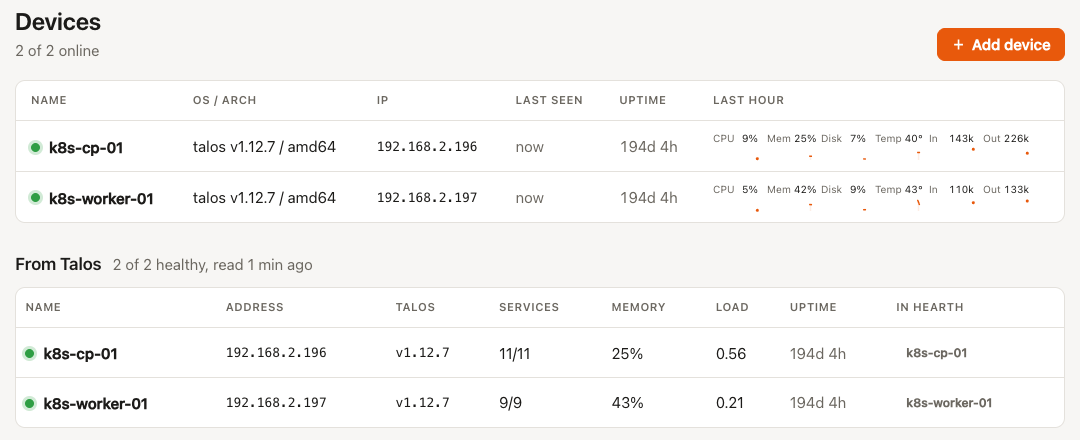
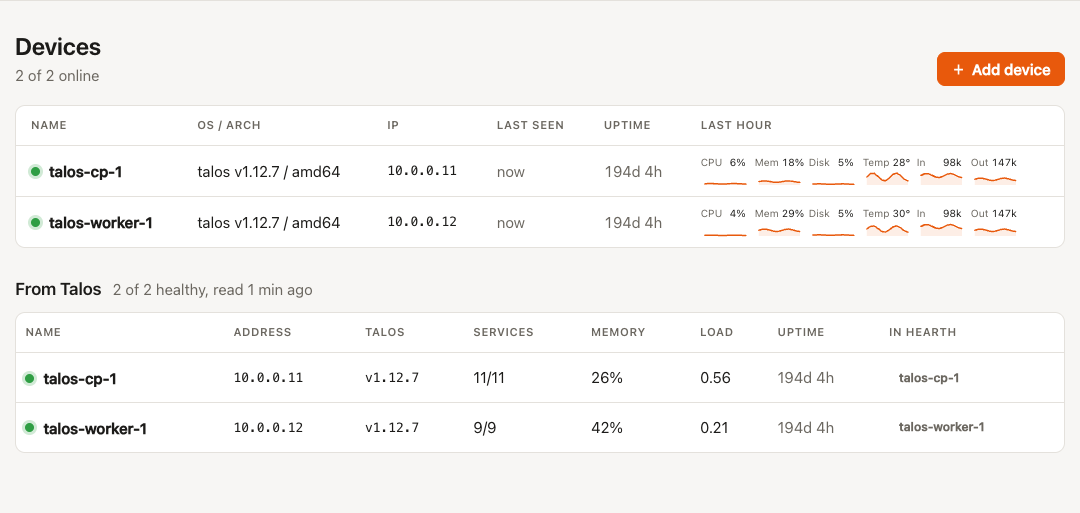
docs(talos): use placeholder nodes in the screenshot and test fixtures (#63)

diff --git a/internal/hub/talos_test.go b/internal/hub/talos_test.go
@@ -34,18 +34,18 @@ func TestAPITalosNodesNotConfigured(t *testing.T) {
 func TestAPITalosNodes(t *testing.T) {
 	now := time.UnixMilli(1_700_000_000_000).UTC()
 	snap := fixedTalos{State: talos.StateOK, ReadAt: now, Nodes: []talos.Node{
-		{Address: "192.168.2.196", Hostname: "k8s-cp-01", Version: "v1.12.7", Healthy: true},
-		{Address: "192.168.2.197", Hostname: "k8s-worker-01", Version: "v1.12.7"},
-		{Address: "192.168.2.198", Hostname: "k8s-worker-02"},
-		{Address: "192.168.2.224", Error: "no route to host"},
+		{Address: "10.0.0.11", Hostname: "talos-cp-1", Version: "v1.12.7", Healthy: true},
+		{Address: "10.0.0.12", Hostname: "talos-worker-1", Version: "v1.12.7"},
+		{Address: "10.0.0.13", Hostname: "talos-worker-2"},
+		{Address: "10.0.0.99", Error: "no route to host"},
 	}}
 	f := newAPIFixture(t, true, func(c *Config) { c.Talos = snap })
 	for _, d := range []store.Device{
 		{
-			ID: "cp", Name: "k8s-cp-01", Hostname: "k8s-cp-01", FirstSeen: now, LastSeen: now, Status: store.StatusOnline,
-			Facts: json.RawMessage(`{"interfaces":[{"name":"enp1s0","ips":["192.168.2.196/24"]}]}`),
+			ID: "cp", Name: "talos-cp-1", Hostname: "talos-cp-1", FirstSeen: now, LastSeen: now, Status: store.StatusOnline,
+			Facts: json.RawMessage(`{"interfaces":[{"name":"enp1s0","ips":["10.0.0.11/24"]}]}`),
 		},
-		{ID: "w1", Name: "worker one", Hostname: "K8S-WORKER-01.lan", FirstSeen: now, LastSeen: now, Status: store.StatusOnline},
+		{ID: "w1", Name: "worker one", Hostname: "TALOS-WORKER-1.lan", FirstSeen: now, LastSeen: now, Status: store.StatusOnline},
 	} {
 		if err := f.st.Devices().Upsert(t.Context(), d); err != nil {
 			t.Fatal(err)

diff --git a/cmd/hearth/agent_test.go b/cmd/hearth/agent_test.go
@@ -133,7 +133,7 @@ func TestAgentJoinTokenFileIfNotEnrolled(t *testing.T) {
 	url, tok := startTestHub(t)
 	t.Setenv(tokenEnv, "")
 	dataDir := filepath.Join(t.TempDir(), "agent")
-	tokenFile := filepath.Join(t.TempDir(), "k8s-cp-01")
+	tokenFile := filepath.Join(t.TempDir(), "talos-cp-1")
 	if err := os.WriteFile(tokenFile, []byte(tok+"\n"), 0o600); err != nil {
 		t.Fatal(err)
 	}
